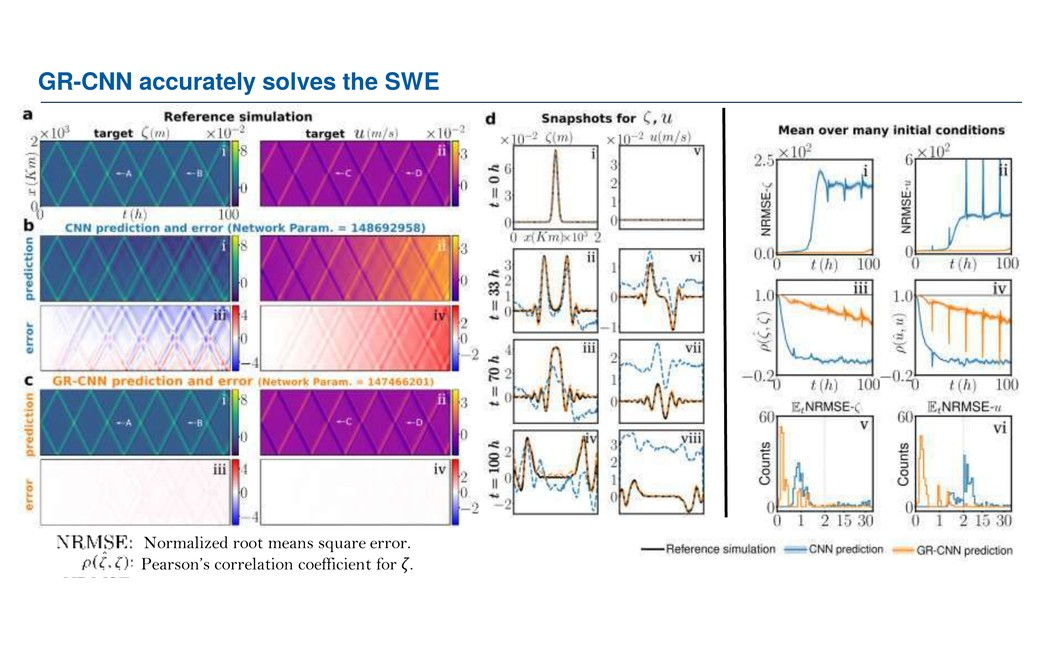
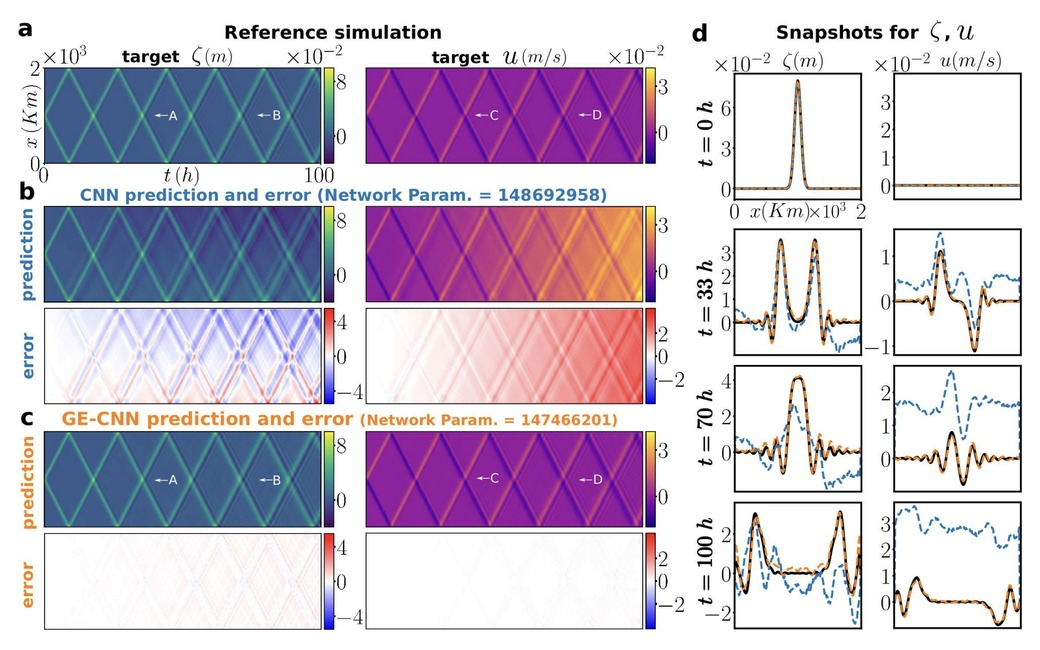
2024 preprint: high-resolution figure

diff --git a/publication/index.html b/publication/index.html
@@ -275,7 +275,7 @@
         
 <div class="grid-sizer col-lg-12 isotope-item pubtype-3 year-2024">
 <div class="pub-list-item has-thumb" style="margin-bottom: 1rem" itemscope itemtype="http://schema.org/CreativeWork">
-<a class="pub-thumb js-figzoom" href="/img/pubs/full/ess2024.jpg?v=2" title="Click to enlarge the figure"><img src="/img/pubs/ess2024.jpg?v=4" alt="Figure from the paper" loading="lazy"></a>
+<a class="pub-thumb js-figzoom" href="/img/pubs/full/ess2024.jpg?v=3" title="Click to enlarge the figure"><img src="/img/pubs/ess2024.jpg?v=5" alt="Figure from the paper" loading="lazy"></a>
 <div class="pub-body">
 <i class="far fa-file-alt pub-icon" aria-hidden="true"></i>
 <span itemprop="author" class="article-metadata li-cite-author">

diff --git a/index.html b/index.html
@@ -504,7 +504,7 @@
 
 <!--   paper 2024 -->
  <div class="pub-list-item has-thumb" style="margin-bottom: 1rem" itemscope itemtype="http://schema.org/CreativeWork">
-<a class="pub-thumb js-figzoom" href="/img/pubs/full/ess2024.jpg?v=2" title="Click to enlarge the figure"><img src="/img/pubs/ess2024.jpg?v=4" alt="Figure from the paper" loading="lazy"></a>
+<a class="pub-thumb js-figzoom" href="/img/pubs/full/ess2024.jpg?v=3" title="Click to enlarge the figure"><img src="/img/pubs/ess2024.jpg?v=5" alt="Figure from the paper" loading="lazy"></a>
 <div class="pub-body">
 <i class="far fa-file-alt pub-icon" aria-hidden="true"></i>
 <span itemprop="author" class="article-metadata li-cite-author">
